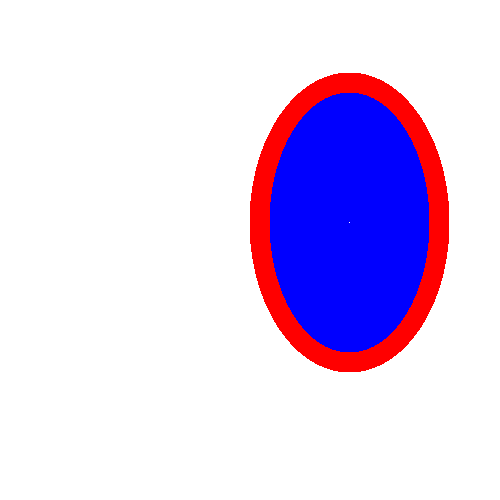
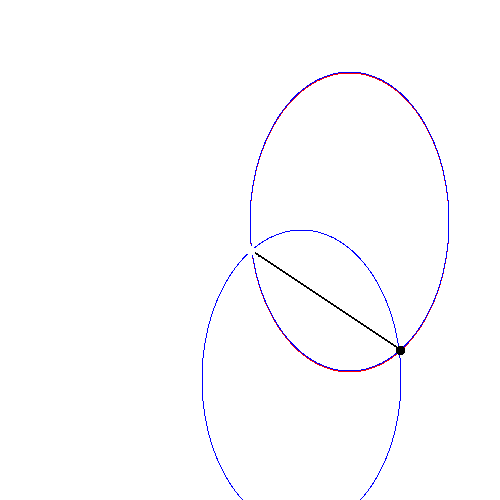
findinf two possible ellipse centers given two points and rx,ry

Changed region(s): [[0.48, 0.12, 0.9, 0.75]]

diff --git a/src/shapes/path.py b/src/shapes/path.py
@@ -1,5 +1,8 @@
 import re
 from src.shapes.line import Line
+from src.shapes.ellipse import Ellipse
+from src.shapes.circle import Circle
+import numpy as np
 
 
 class Path:
@@ -65,7 +68,50 @@ class Path:
         self.cursor = (x1, y1)
         return Line(x0, y0, x1, y1, self.stroke_color, self.stroke_width)
 
-    def consume_closure(self, step_type, step_data):
+    def point_is_on_ellipse(self, x, y, cx, cy, rx, ry):
+        threshhold = 1
+        is_inside_small_ellipse = Ellipse.ellipse_factor(x, y, cx, cy, rx - threshhold, ry - threshhold) < 1
+        is_inside_big_ellipse = Ellipse.ellipse_factor(x, y, cx, cy, rx + threshhold, ry + threshhold) < 1
+        return is_inside_big_ellipse and not is_inside_small_ellipse
+
+    def find_ellipse_centers(self, p1, p2, rx, ry, canvas):
+        x0, y0 = p1
+        x1, y1 = p2
+
+        dx, dy = x1 - x0, y1 - y0
+
+        centers = []
+        for mx in np.arange(-rx, rx, 1):
+            for my in np.arange(-ry, ry, 1):
+                if self.point_is_on_ellipse(mx, my, 0, 0, rx, ry) and \
+                        self.point_is_on_ellipse(mx + dx, my + dy, 0, 0, rx, ry):
+                    cx0, cy0 = x0 - mx, y0 - my
+                    centroid_x, centroid_y = (x0 + x1) / 2, (y0 + y1) / 2
+                    cx1, cy1 = centroid_x + (centroid_x - cx0), centroid_y + (centroid_y - cy0)
+                    centers = [(cx0, cy0), (cx1, cy1)]
+                    break
+        return centers
+
+    def consume_arch(self, step_type, step_data, canvas):
+        assert step_type.lower() == 'a'
+        print(step_data, step_type)
+        data = step_data[0]
+        rx = data[0]
+        ry = data[1]
+        meta = data[3]
+        x1 = data[4]
+        y1 = data[5]
+        x0, y0 = self.cursor
+        if step_type == 'a':
+            x1 += x0
+            y1 += y0
+        centers = self.find_ellipse_centers((x0, y0), (x1, y1), rx, ry, canvas)
+        if centers:
+            for cx, cy in centers:
+                Ellipse(cx, cy, rx, ry, None, (0, 0, 255), 1).draw(canvas)
+        return Line(x0, y0, x1, y1, (0, 0, 0), 2)
+
+    def consume_closure(self, step_type, _):
         assert step_type.lower() == 'z'
         line = Line(self.cursor[0], self.cursor[1], self.closure[0], self.closure[1], self.stroke_color,
                     self.stroke_width)
@@ -78,12 +124,16 @@ class Path:
             'h': self.consume_horizontal,
             'v': self.consume_vertical,
             'l': self.consume_line,
+            'a': self.consume_arch,
             'z': self.consume_closure
         }
         for step in self.steps:
             step_type, step_data = Path.parse_step(step)
-            fun = func[step_type.lower()]
-            object = fun(step_type, step_data)
+            if step_type.lower() == 'a':
+                object = self.consume_arch(step_type, step_data, canvas)
+            else:
+                fun = func[step_type.lower()]
+                object = fun(step_type, step_data)
             if object:
                 # print(step_type, step_data)
                 # print(self.cursor)

diff --git a/src/shapes/ellipse.py b/src/shapes/ellipse.py
@@ -18,22 +18,23 @@ class Ellipse:
                        style[1], style[2])
 
     @staticmethod
-    def _ellipse_factor(x, y, cx, cy, rx, ry):
+    def ellipse_factor(x, y, cx, cy, rx, ry):
         return ((cx - x) ** 2) / (rx ** 2) + ((cy - y) ** 2) / (ry ** 2)
 
     def draw(self, canvas):
         for dx in np.arange(self.x - self.rx, self.x + self.rx, 1):
             for dy in np.arange(self.y - self.ry, self.y + self.ry, 1):
-                if Ellipse._ellipse_factor(dx, dy, self.x, self.y, self.rx, self.ry):
+                if Ellipse.ellipse_factor(dx, dy, self.x, self.y, self.rx, self.ry):
                     if self.stroke_color and self.stroke_width:
-                        inside_main_ellipse = Ellipse._ellipse_factor(
+                        inside_main_ellipse = Ellipse.ellipse_factor(
                             dx, dy, self.x, self.y,
                             self.rx - self.stroke_width,
                             self.ry - self.stroke_width) < 1
-                        inside_extened_ellipse = Ellipse._ellipse_factor(
+                        inside_extened_ellipse = Ellipse.ellipse_factor(
                             dx, dy, self.x, self.y,self.rx, self.ry) < 1
                         if inside_extened_ellipse:
                             if not inside_main_ellipse:
-                                canvas.put_pixel(dx, dy, self.stroke_color)
-                            else:
+                                if self.stroke_color:
+                                    canvas.put_pixel(dx, dy, self.stroke_color)
+                            elif self.fill_color:
                                 canvas.put_pixel(dx, dy, self.fill_color)
